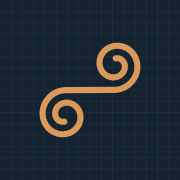
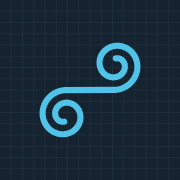
🎨 Try a blue/cyan accent colour instead of copper
Rename the copper tokens to accent, switch them to a cyan that keeps
WCAG AA contrast in both themes, move the old copper to code numbers,
and regenerate the favicon and PWA icons.

Claude-Session: https://claude.ai/code/session_019ofo2LTMiphreJZvEJecXV

Changed region(s): [[0.1944, 0.2222, 0.8056, 0.7778]]

diff --git a/src/index.css b/src/index.css
@@ -13,9 +13,9 @@
   --ink-soft: #4d5f6e;
   --line: #cdd8e0;
   --grid: rgb(19 33 45 / 0.055);
-  --copper: #a5581c;
-  --copper-ink: #ffffff;
-  --copper-text: #9a5119;
+  --accent: #0b6e99;
+  --accent-ink: #ffffff;
+  --accent-text: #0a6690;
   --solved: #157a52;
   --alert: #b42d1a;
   --tint: rgb(19 33 45 / 0.05);
@@ -23,9 +23,9 @@
   /* Lightness of the green-to-red solving time, readable on either theme. */
   --time-lightness: 0.5;
 
-  --code-keyword: #9a5119;
+  --code-keyword: #0a6690;
   --code-string: #157a52;
-  --code-number: #1f5f99;
+  --code-number: #9a5119;
   --code-builtin: #6b3fa8;
   --code-comment: #5d6d7a;
 }
@@ -37,17 +37,17 @@
   --ink-soft: #9aabb9;
   --line: #253847;
   --grid: rgb(154 171 185 / 0.06);
-  --copper: #d9995a;
-  --copper-ink: #1d1206;
-  --copper-text: #e2a96f;
+  --accent: #4fc3e8;
+  --accent-ink: #04141b;
+  --accent-text: #6fd0f0;
   --solved: #6fd1a4;
   --alert: #ff7a66;
   --tint: rgb(230 235 239 / 0.05);
   --time-lightness: 0.8;
 
-  --code-keyword: #e2a96f;
+  --code-keyword: #6fd0f0;
   --code-string: #8fd8b4;
-  --code-number: #8cc1ec;
+  --code-number: #e2a96f;
   --code-builtin: #c9adf0;
   --code-comment: #8a9cab;
 }
@@ -58,9 +58,9 @@
   --color-ink: var(--ink);
   --color-ink-soft: var(--ink-soft);
   --color-line: var(--line);
-  --color-copper: var(--copper);
-  --color-copper-ink: var(--copper-ink);
-  --color-copper-text: var(--copper-text);
+  --color-accent: var(--accent);
+  --color-accent-ink: var(--accent-ink);
+  --color-accent-text: var(--accent-text);
   --color-solved: var(--solved);
   --color-solved-surface: var(--solved-surface);
   --color-alert: var(--alert);
@@ -233,7 +233,7 @@
   }
 
   :focus-visible {
-    outline: 2px solid var(--copper);
+    outline: 2px solid var(--accent);
     outline-offset: 3px;
     border-radius: 4px;
   }
@@ -270,11 +270,11 @@
 }
 
 @utility btn-primary {
-  background-color: var(--copper);
-  color: var(--copper-ink);
+  background-color: var(--accent);
+  color: var(--accent-ink);
 
   &:hover:not(:disabled) {
-    box-shadow: 0 6px 18px -8px var(--copper);
+    box-shadow: 0 6px 18px -8px var(--accent);
   }
 }
 
@@ -290,12 +290,12 @@
 @utility link {
   font-weight: 600;
   text-decoration-line: underline;
-  text-decoration-color: var(--copper);
+  text-decoration-color: var(--accent);
   text-decoration-thickness: 2px;
   text-underline-offset: 3px;
 
   &:hover {
-    color: var(--copper-text);
+    color: var(--accent-text);
   }
 }
 

diff --git a/src/components/ProblemTile.tsx b/src/components/ProblemTile.tsx
@@ -34,7 +34,7 @@ export const ProblemTile = memo(function ProblemTile({ id }: { id: number }) {
 
   const name = problemTitle(id);
   const heading = (
-    <span className="font-digits text-xs font-semibold tracking-widest text-copper-text uppercase">
+    <span className="font-digits text-xs font-semibold tracking-widest text-accent-text uppercase">
       Problem {id}
     </span>
   );
@@ -85,12 +85,12 @@ export const ProblemTile = memo(function ProblemTile({ id }: { id: number }) {
       data-testid={`problem-${id}`}
       data-solved={solved}
       data-number={id}
-      className={`group relative flex h-full flex-col gap-2 rounded-xl border px-3.5 py-3 transition duration-300 has-[a:focus-visible]:outline-2 has-[a:focus-visible]:outline-offset-3 has-[a:focus-visible]:outline-copper hover:-translate-y-0.5 hover:shadow-[0_12px_28px_-16px_var(--ink)] ${watermark} ${
+      className={`group relative flex h-full flex-col gap-2 rounded-xl border px-3.5 py-3 transition duration-300 has-[a:focus-visible]:outline-2 has-[a:focus-visible]:outline-offset-3 has-[a:focus-visible]:outline-accent hover:-translate-y-0.5 hover:shadow-[0_12px_28px_-16px_var(--ink)] ${watermark} ${
         solved
           ? `border-solved/40 bg-solved-surface before:text-solved/10 ${solvedOnMount ? '' : 'animate-glow'}`
           : busy
-            ? 'border-copper/60 bg-surface before:text-copper/10'
-            : 'border-line bg-surface before:text-ink/5 hover:border-copper/60 hover:before:text-copper/10'
+            ? 'border-accent/60 bg-surface before:text-accent/10'
+            : 'border-line bg-surface before:text-ink/5 hover:border-accent/60 hover:before:text-accent/10'
       }`}
     >
       <div>
@@ -164,9 +164,9 @@ function TimeGauge({ run }: { run: Run | undefined }) {
     return (
       <span
         aria-hidden
-        className="absolute inset-x-0 bottom-0 h-1 bg-copper/15"
+        className="absolute inset-x-0 bottom-0 h-1 bg-accent/15"
       >
-        <span className="absolute inset-y-0 w-1/3 animate-scan bg-copper/70" />
+        <span className="absolute inset-y-0 w-1/3 animate-scan bg-accent/70" />
       </span>
     );
   }

diff --git a/src/routes/code.$id.tsx b/src/routes/code.$id.tsx
@@ -109,7 +109,7 @@ function CodePage() {
           {problemTitle(id) && (
             <>
               {' · '}
-              <span className="font-semibold text-copper-text">
+              <span className="font-semibold text-accent-text">
                 {problemTitle(id)}
               </span>
             </>
@@ -121,12 +121,12 @@ function CodePage() {
           href={problemUrl(id)}
           target="_blank"
           rel="noopener"
-          className="group btn border border-copper/60 bg-surface px-4 py-2.5 text-base text-ink hover:border-copper hover:bg-tint"
+          className="group btn border border-accent/60 bg-surface px-4 py-2.5 text-base text-ink hover:border-accent hover:bg-tint"
         >
-          <BookOpen className="size-5 text-copper-text" aria-hidden />
+          <BookOpen className="size-5 text-accent-text" aria-hidden />
           <span>
             Read problem {id} on{' '}
-            <span className="text-copper-text">Project Euler</span>
+            <span className="text-accent-text">Project Euler</span>
           </span>
           <ExternalLink
             className="size-4 text-ink-soft transition-transform group-hover:translate-x-0.5 group-hover:-translate-y-0.5"

diff --git a/src/components/BackToTop.tsx b/src/components/BackToTop.tsx
@@ -33,7 +33,7 @@ export function BackToTop({ targetId }: { targetId: string }) {
       type="button"
       onClick={goToTop}
       aria-label="Back to top"
-      className="fixed right-4 bottom-5 z-30 sm:right-6 sm:bottom-6 grid size-12 animate-rise cursor-pointer place-items-center rounded-full bg-copper text-copper-ink shadow-[0_8px_20px_-6px_var(--copper)] transition hover:-translate-y-0.5 active:scale-90"
+      className="fixed right-4 bottom-5 z-30 sm:right-6 sm:bottom-6 grid size-12 animate-rise cursor-pointer place-items-center rounded-full bg-accent text-accent-ink shadow-[0_8px_20px_-6px_var(--accent)] transition hover:-translate-y-0.5 active:scale-90"
     >
       <ArrowUp className="size-5" aria-hidden />
     </button>

diff --git a/src/components/SolveButton.tsx b/src/components/SolveButton.tsx
@@ -45,7 +45,7 @@ export function SolveButton({
           ? 'bg-solved/15 text-solved hover:bg-solved/25'
           : busy
             ? 'bg-tint text-ink-soft'
-            : 'bg-tint text-copper-text ring-1 ring-line hover:bg-copper hover:text-copper-ink active:scale-90'
+            : 'bg-tint text-accent-text ring-1 ring-line hover:bg-accent hover:text-accent-ink active:scale-90'
       } ${className ?? ''}`}
     >
       <Icon

diff --git a/src/routes/index.tsx b/src/routes/index.tsx
@@ -160,7 +160,7 @@ function ProgressStrip({ runs }: { runs: ReadonlyMap<number, Run> }) {
                 : status === 'solved'
                   ? 'animate-pop bg-solved'
                   : status === 'solving'
-                    ? 'animate-pulse bg-copper/50'
+                    ? 'animate-pulse bg-accent/50'
                     : 'bg-line'
             }`}
           />

diff --git a/src/components/Logo.tsx b/src/components/Logo.tsx
@@ -12,7 +12,7 @@ export function Logo({ className }: { className?: string }) {
       <path
         d={SPIRAL_PATH}
         fill="none"
-        stroke="#d9995a"
+        stroke="#4fc3e8"
         strokeWidth={SPIRAL_STROKE_WIDTH}
         strokeLinecap="round"
         strokeLinejoin="round"
